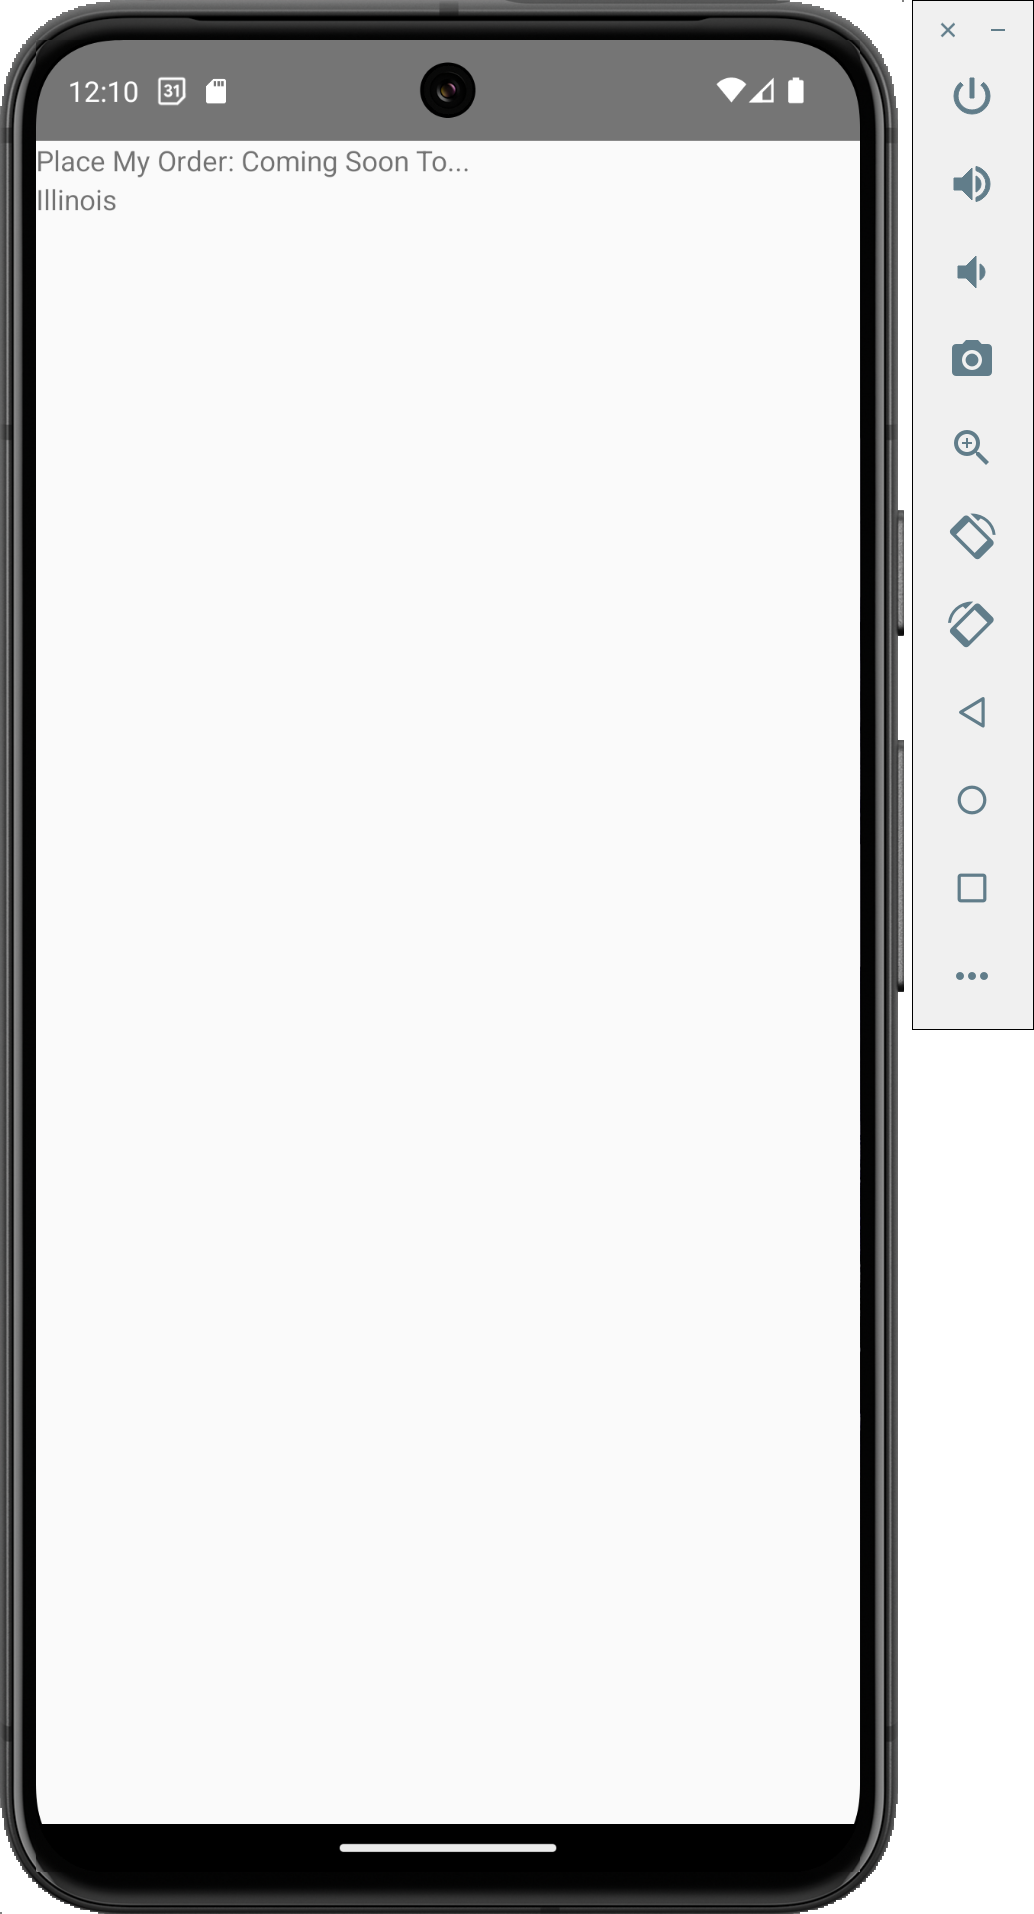
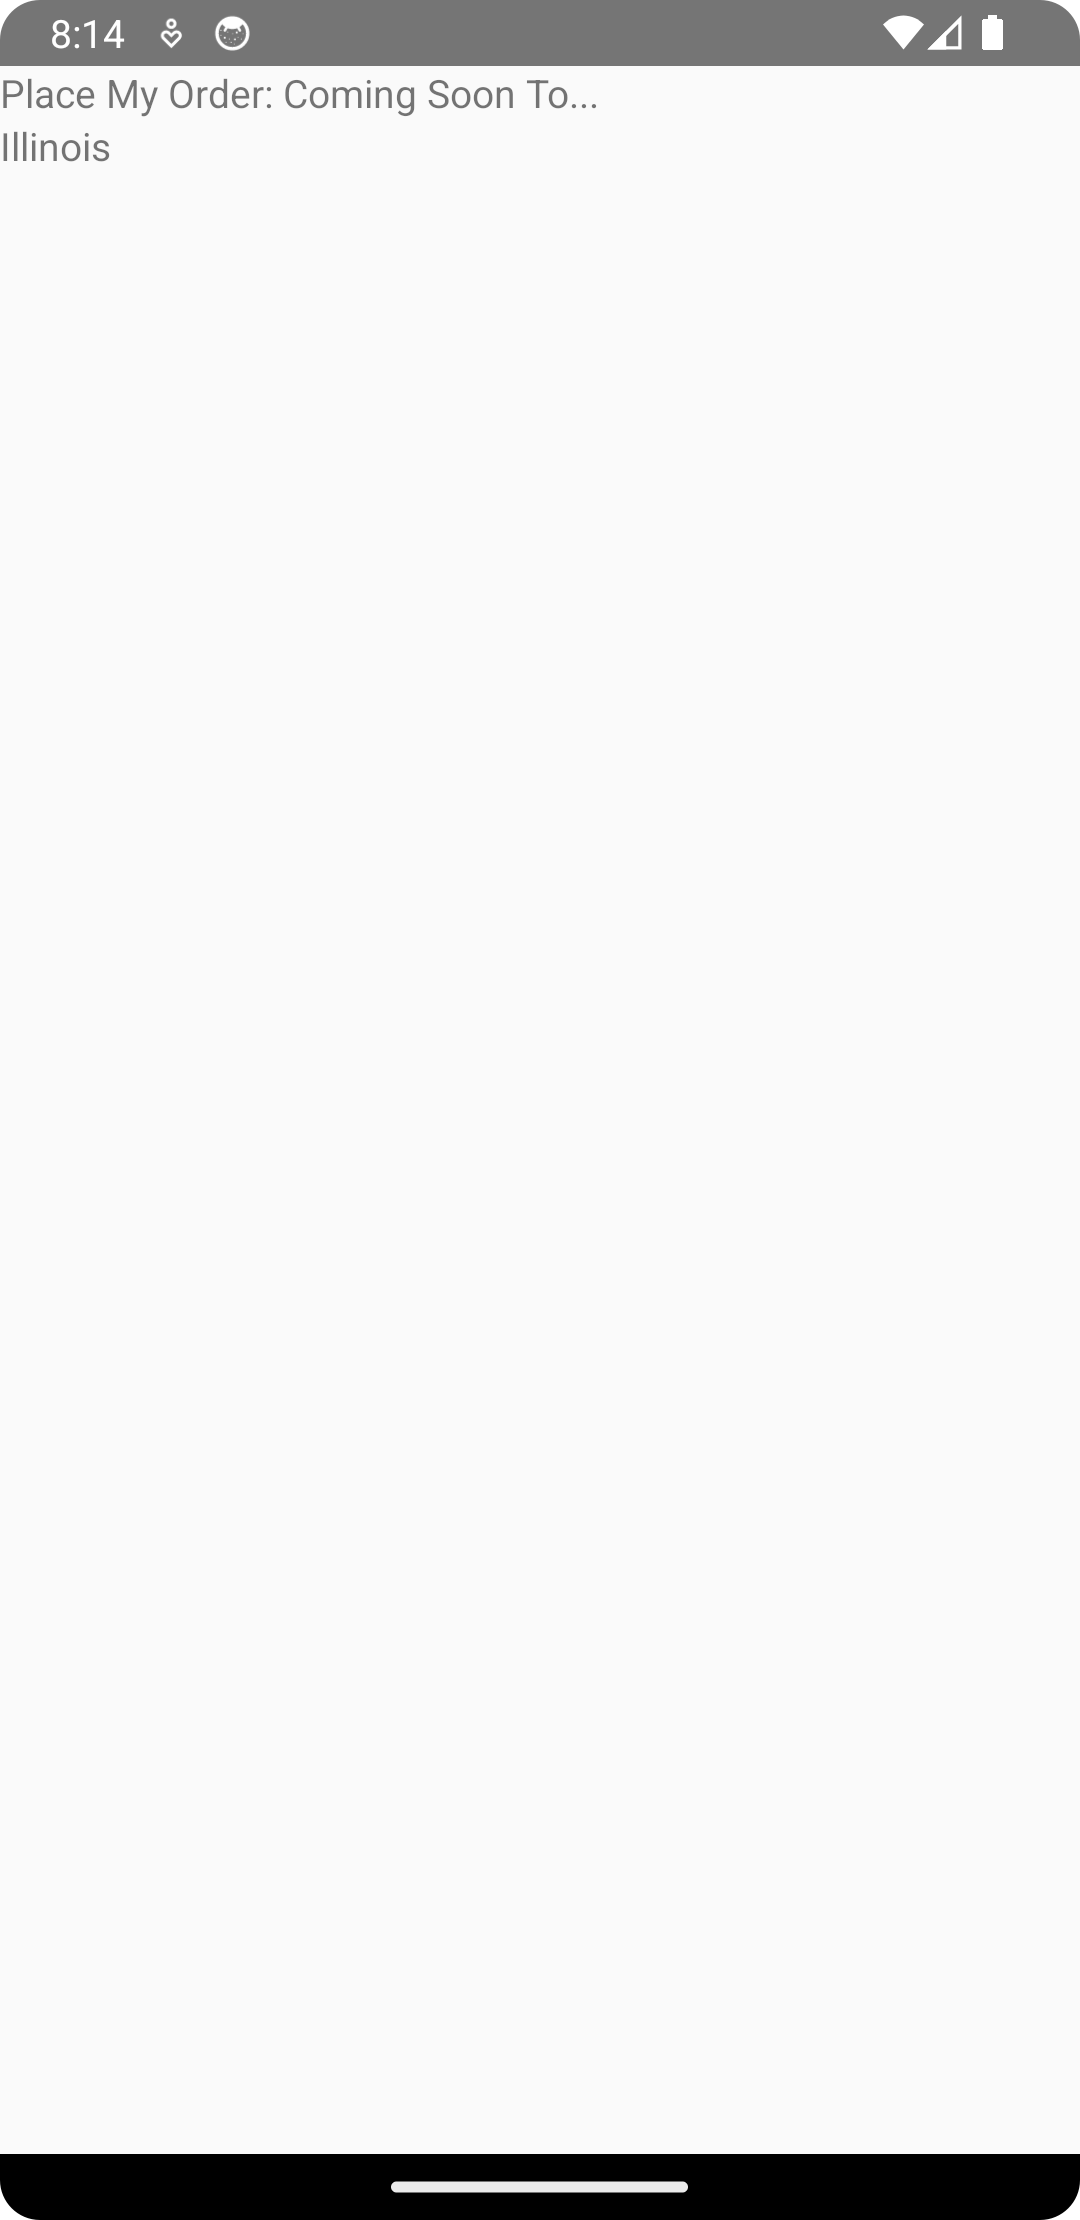
image update to remove the emulator sidebar. Adding border to the image

Changed region(s): [[0.0, 0.0, 1.0, 1.0], [0.9284, 0.3699, 0.9594, 0.4316]]

diff --git a/src/react-native/04-intro-to-jsx/intro-to-jsx.md b/src/react-native/04-intro-to-jsx/intro-to-jsx.md
@@ -16,7 +16,7 @@ In this section, you will:
 
 Now that we have our project set up, let’s update our page to look like the design below:
 
-<img alt="Screenshot of a mobile application interface text “Place My Order: Coming Soon To...” and “Illinois“." src="../../static/img/react-native/04-intro-to-jsx/01-solution.png" style="max-height: 750px;"/>
+<img alt="Screenshot of a mobile application interface text “Place My Order: Coming Soon To...” and “Illinois“." src="../../static/img/react-native/04-intro-to-jsx/01-solution.png" style="max-height: 750px; border: 4px solid black; border-radius: 25px;"/>
 
 ### Concept TODO
 
@@ -60,7 +60,7 @@ If you’ve implemented the solution correctly, the tests will pass when you run
 
 Next, we want to render a list of states name in our application:
 
-<img alt="Screenshot of a mobile application interface text “Place My Order: Coming Soon To...”, “Illinois“, and “Wisconsin“." src="../../static/img/react-native/04-intro-to-jsx/02-solution.png" style="max-height: 750px;"/>
+<img alt="Screenshot of a mobile application interface text “Place My Order: Coming Soon To...”, “Illinois“, and “Wisconsin“." src="../../static/img/react-native/04-intro-to-jsx/02-solution.png" style="max-height: 750px; border: 4px solid black; border-radius: 25px;"/>
 
 ### Concept TODO
 
